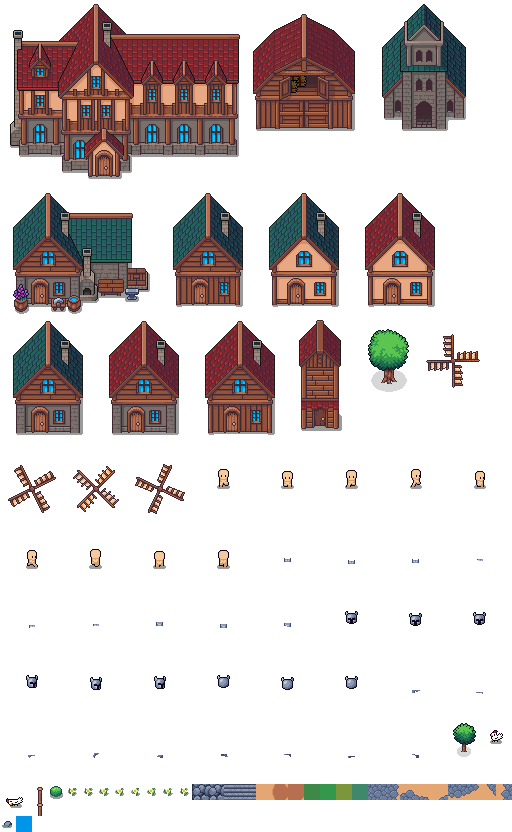
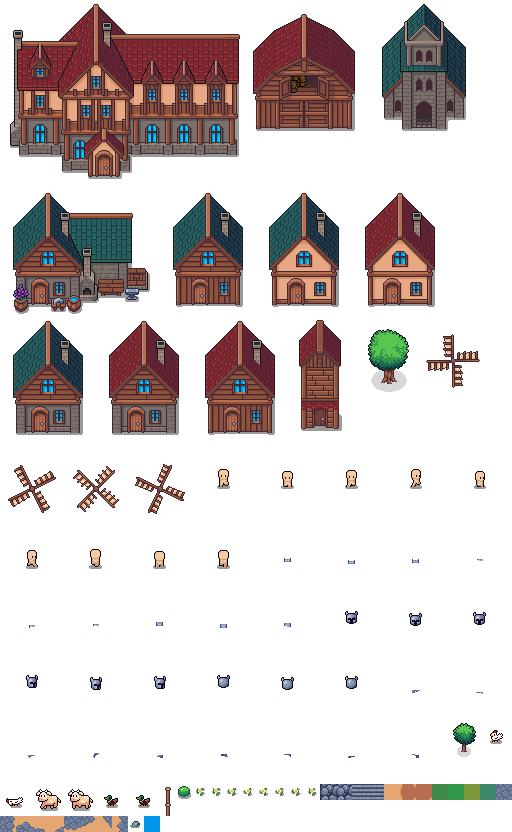
feat(game): animated duck + cow critters on the farm (M3-3)
The farm had four identical chickens. Give it a livelier roster with two new
animated species, each with its own gait.

- entities/critters.js: per-critter `kind` + a KINDS registry (frames, size,
  wander amp/speed, anim ticks). Chickens now share the world with ducks and a
  slower, larger grazing cow; frames advance via anim.js's animIndex.
- manifest: duck walk row (Duck_01 y32) + cow side-walk row (Cow_01 y96), two
  stride poses each — rows verified by viewing the sheets.
- Butterfly was evaluated and dropped: Butterfly.png is a 4-colour variant sheet,
  not a single-butterfly flap, so cycling it would rainbow-flicker.
- rebake atlas (91 cells / 99 frames); tests for the species mix + existing
  determinism/radius invariants (butterfly-free amps stay within the farm radius).
  Verified in prod build: cow, ducks, chickens wander and animate near spawn.

Changed region(s): [[0.0, 0.9375, 1.0, 1.0]]

diff --git a/src/game/entities/critters.js b/src/game/entities/critters.js
@@ -1,18 +1,26 @@
-// A handful of chickens wandering near the Farm. Purely deterministic — each critter's position
-// is a function of the shared world clock plus a fixed per-critter phase (no Math.random, no
-// integrated velocity state), so the same clock value always reproduces the same layout and
-// `updateCritters` can be called in any order/step size without drifting.
+// A mix of critters wandering near the Farm — chickens, ducks, a grazing cow, a butterfly.
+// Purely deterministic: each critter's position is a function of the shared world clock plus a
+// fixed per-critter phase (no Math.random, no integrated velocity state), so the same clock value
+// always reproduces the same layout and `updateCritters` can be called in any order/step size
+// without drifting.
+import { animIndex } from '../render/anim.js'
 
-const CRITTER_COUNT = 4
-const WANDER_SPEED = 0.5 // rad per clock-unit
-const AMP_X = 45
-const AMP_Y = 26
-const CHICKEN_SIZE = 20
+// Per-species behaviour + sprite. `frames`/`ticks` drive the walk animation via anim.js; `size` is
+// the draw box; `ampX/ampY/speed` shape the wander ellipse. Bigger, slower animals (cow) get a
+// tighter, lazier wander than the darting fowl.
+const KINDS = {
+  chicken: { frames: ['chicken_0', 'chicken_1'], size: 20, ticks: 12, ampX: 45, ampY: 26, speed: 0.5 },
+  duck: { frames: ['duck_0', 'duck_1'], size: 20, ticks: 11, ampX: 52, ampY: 22, speed: 0.42 },
+  cow: { frames: ['cow_0', 'cow_1'], size: 30, ticks: 26, ampX: 34, ampY: 16, speed: 0.24 },
+}
+// The farm's critter roster — a lively mix, not four identical chickens.
+const ROSTER = ['chicken', 'chicken', 'duck', 'duck', 'cow', 'chicken']
 
 export function createCritters(world, seed = 0) {
   const { farm } = world
-  return Array.from({ length: CRITTER_COUNT }, (_, i) => ({
+  return ROSTER.map((kind, i) => ({
     id: i,
+    kind,
     farmX: farm.x,
     farmY: farm.y,
     phase: i * 2.4 + seed * 0.7,
@@ -26,31 +34,31 @@ export function createCritters(world, seed = 0) {
 // previous snapshot (e.g. a test) never sees it change out from under it.
 export function updateCritters(critters, dt, clock) {
   return critters.map(c => {
-    const ang = clock * WANDER_SPEED + c.phase
+    const k = KINDS[c.kind]
+    const ang = clock * k.speed + c.phase
     return {
       ...c,
-      x: c.farmX + Math.cos(ang) * AMP_X,
-      y: c.farmY + Math.sin(ang * 0.7) * AMP_Y,
+      x: c.farmX + Math.cos(ang) * k.ampX,
+      y: c.farmY + Math.sin(ang * 0.7) * k.ampY,
       facingLeft: Math.sin(ang) > 0,
     }
   })
 }
 
-function chickenFrame(t) {
-  return Math.floor(t * 4) % 2 === 0 ? 'chicken_0' : 'chicken_1'
-}
-
 // Depth-sort-ready drawables (same {baseY, draw} shape scene2d.js uses for decor/buildings) so
-// chickens correctly occlude/are occluded by whatever else is near their feet.
+// critters correctly occlude/are occluded by whatever else is near their feet.
 export function critterDrawables(state, cam, t) {
-  const frame = chickenFrame(t)
-  return (state.critters || []).map(c => ({
-    baseY: c.y,
-    draw: (ctx, sprites) => {
-      const dx = c.x - CHICKEN_SIZE / 2 - cam.x
-      const dy = c.y - CHICKEN_SIZE - cam.y
-      if (c.facingLeft) sprites.drawFlipped(ctx, frame, dx, dy, CHICKEN_SIZE, CHICKEN_SIZE)
-      else sprites.draw(ctx, frame, dx, dy, CHICKEN_SIZE, CHICKEN_SIZE)
-    },
-  }))
+  return (state.critters || []).map(c => {
+    const k = KINDS[c.kind]
+    const name = k.frames[animIndex(t, k.ticks, k.frames.length)]
+    return {
+      baseY: c.y,
+      draw: (ctx, sprites) => {
+        const dx = c.x - k.size / 2 - cam.x
+        const dy = c.y - k.size - cam.y
+        if (c.facingLeft) sprites.drawFlipped(ctx, name, dx, dy, k.size, k.size)
+        else sprites.draw(ctx, name, dx, dy, k.size, k.size)
+      },
+    }
+  })
 }

diff --git a/src/game/assets/manifest.js b/src/game/assets/manifest.js
@@ -60,6 +60,11 @@ export const MANIFEST = {
     cfChest: '/game/cute-fantasy/Player/Chest/Plate_Chest/Plate_Chest_Iron.png',
     cfLegs: '/game/cute-fantasy/Player/Legs/Plate_Legs/Plate_Legs_Iron.png',
     cfChicken: '/game/cute-fantasy/Animals/Chicken/Chicken_01.png',
+    // More farm critters. Same 32px-cell modular grid as the chicken; the right-facing walk row
+    // differs per species (measured by viewing each sheet): duck walks in row 1 (y32), cow in
+    // row 3 (y96).
+    cfDuck: '/game/cute-fantasy/Animals/Duck/Duck_01.png',
+    cfCow: '/game/cute-fantasy/Animals/Cow/Cow_01.png',
   },
   frames: {
     // Ground per biome. Grass_1..4_Middle.png are each a single fully-opaque 16x16 tile (no
@@ -228,6 +233,12 @@ export const MANIFEST = {
     // that cycle, giving 2 visually distinct walk poses.
     chicken_0: { img: 'cfChicken', x: 0, y: 64, w: 32, h: 32 },
     chicken_1: { img: 'cfChicken', x: 128, y: 64, w: 32, h: 32 },
+    // Duck walk cycle, right-facing row 1 (y32); cols 0 and 3 are two distinct stride poses.
+    duck_0: { img: 'cfDuck', x: 0, y: 32, w: 32, h: 32 },
+    duck_1: { img: 'cfDuck', x: 96, y: 32, w: 32, h: 32 },
+    // Cow walk cycle, right-facing side-view row 3 (y96); cols 0 and 4 are two stride poses.
+    cow_0: { img: 'cfCow', x: 0, y: 96, w: 32, h: 32 },
+    cow_1: { img: 'cfCow', x: 128, y: 96, w: 32, h: 32 },
   },
 }
 

diff --git a/src/game/assets/manifest.test.js b/src/game/assets/manifest.test.js
@@ -30,6 +30,7 @@ const REQUIRED_FRAMES = [
   'helm_up_0', 'helm_up_1', 'helm_up_2',
   'helm_right_0', 'helm_right_1', 'helm_right_2',
   'chicken_0', 'chicken_1',
+  'duck_0', 'duck_1', 'cow_0', 'cow_1',
 ]
 
 // Real pixel dimensions of each source PNG, captured with
@@ -68,6 +69,8 @@ const REAL_IMAGE_SIZE = {
   cfChest: { w: 576, h: 3584 },
   cfLegs: { w: 576, h: 3584 },
   cfChicken: { w: 256, h: 512 },
+  cfDuck: { w: 256, h: 640 },
+  cfCow: { w: 256, h: 480 },
 }
 
 describe('MANIFEST integrity', () => {

diff --git a/src/game/entities/critters.test.js b/src/game/entities/critters.test.js
@@ -36,4 +36,10 @@ describe('critters', () => {
       expect(c.y).toBe(world.farm.y)
     })
   })
+
+  it('spawns a mix of species, not one repeated kind', () => {
+    const kinds = new Set(createCritters(world).map(c => c.kind))
+    expect(kinds.size).toBeGreaterThan(1)
+    expect(kinds.has('chicken')).toBe(true)
+  })
 })
